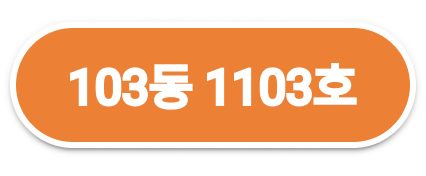
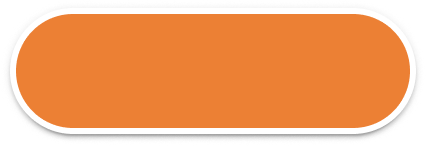
#9 test:Add overlap image to text

diff --git a/client/src/components/organisms/Header.tsx b/client/src/components/organisms/Header.tsx
@@ -15,11 +15,19 @@ import SquareImg from '../atoms/Img';
 import { Link } from 'react-router-dom';
 import styled from 'styled-components';
 import { fontSize } from '@mui/system';
+import myAxios from '~/others/myAxios';
+import { useEffect, useState } from 'react';
 
 const StyledImg = styled.img`
     margin: 0px 2px;
     height: 67px;
   
+    }
+`;
+// 이미지와 텍스트를 감싸고 있는 요소
+const StyledWrap = styled.div`
+  position: relative;
+
     }
 `;
 
@@ -59,9 +67,21 @@ const pages: {
 ];
 const settings = ['로그아웃'];
 
-const Header = () => {
+interface houseData {
+  lineName: string;
+  houseName: string;
+}
+
+interface ProfileHomeProps {
+  accountAccessToken: string;
+}
+
+const Header: React.FC<ProfileHomeProps> = ({ accountAccessToken }) => {
   const [anchorElNav, setAnchorElNav] = React.useState<null | HTMLElement>(null);
   const [anchorElUser, setAnchorElUser] = React.useState<null | HTMLElement>(null);
+  const [profileList, setProfileList] = useState<houseData[]>([]);
+  const [isProfileHome, setIsProfileHome] = useState(true);
+
 
   const handleOpenNavMenu = (event: React.MouseEvent<HTMLElement>) => {
     setAnchorElNav(event.currentTarget);
@@ -78,6 +98,20 @@ const Header = () => {
   const handleCloseUserMenu = () => {
     setAnchorElUser(null);
   };
+
+  const getProfileList = async () => {
+    const res = await myAxios('get', 'api/v1/accounts/profiles', null, true, accountAccessToken);
+    setProfileList(res.data.response.list);
+  };
+
+  useEffect(() => {
+    if (!isProfileHome) return;
+    try {
+      getProfileList();
+    } catch (err) {
+      console.log(err);
+    }
+  }, [isProfileHome]);
 
   return (
     <AppBar sx={{ background: '#F5F5F5' }} elevation={0} position='fixed'>
@@ -157,8 +191,13 @@ const Header = () => {
               </Button>
             ))}
             <Tooltip title='Open settings'>
-              <IconButton onClick={handleCloseUserMenu} component={Link} to='/sign' sx={{ p: 0 }}>
-                <StyledImg2 src='/img/house.png' />
+            <IconButton onClick={handleCloseUserMenu} component={Link} to='/sign' sx={{ p: 0 }}>
+              <StyledWrap>
+              <StyledImg2 src='/img/house.png' />
+              {isProfileHome ? (  <Typography variant='h5'  sx={{ padding: '11px 10px', height: '50px', position: 'absolute',top: '15.5%',left: '10%' , right: '10%', }}>307동 104호</Typography>) : (<></>)}
+                {/* <StyledText>307동 104호</StyledText>  */}
+              
+              </StyledWrap>
               </IconButton>
             </Tooltip>
             <Menu

diff --git a/client/src/pages/ViewPage.tsx b/client/src/pages/ViewPage.tsx
@@ -67,7 +67,7 @@ const ViewPage = ({ type, accessToken, isReadyForRequestAPI, mode }: ViewPagePro
       const { writer, scope } = viewData;
       setBoardData({
         ...commonViewData,
-        writer,
+        writer ,
         scope,
       });
       return;
